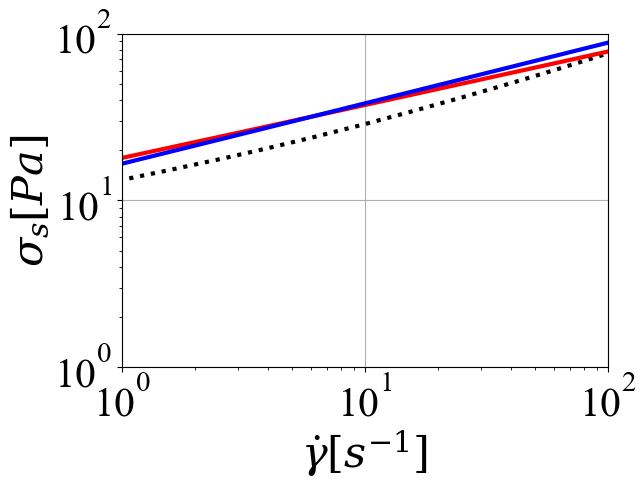
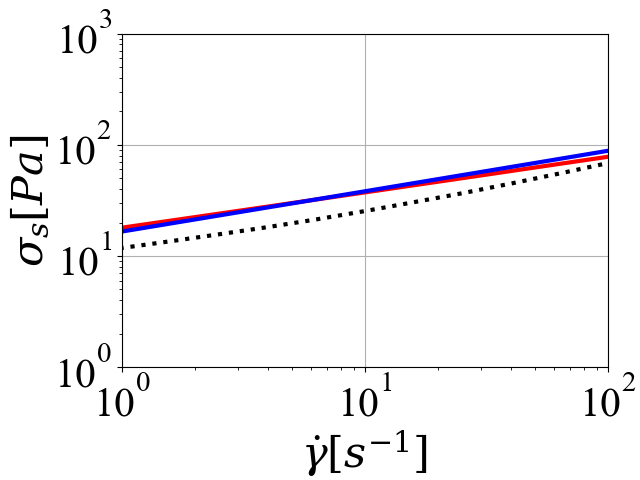
Clarify inverse timing and real flow figures

diff --git a/body-journals.tex b/body-journals.tex
@@ -749,11 +749,21 @@ frame-weighted trajectory to $\mathbf{y}_{\mathrm{obs}}$,
 \end{equation}
 where $\{Y_{s,i,\cdot}\}_i$ are the trajectories assigned to sub $s$
 and $\alpha_d$ are the frame weights used by the inverse loss
-(\S\ref{sec:inv-nn}; Tab.~\ref{tab:hyper}). Both profiles return a single primary
-sub-expert
-$s_{\mathrm{prod}}\in\{s_{\mathrm{real}},s_{\mathrm{sim}}\}$, and the
-inverse uses this top-1 expert directly without ensemble aggregation
-across candidates.
+(\S\ref{sec:inv-nn}; Tab.~\ref{tab:hyper}).  For a single dam-break
+inverse, both profiles return one primary sub-expert
+$s_{\mathrm{prod}}\in\{s_{\mathrm{real}},s_{\mathrm{sim}}\}$ and the
+optimizer stays inside that sub-expert's local training box.  For a two-setup inverse, the same framework keeps the first setup as a
+top-$1$ anchor and treats the routed setup-$2$ candidates as discrete
+joint hypotheses.  The profile controls only three knobs: the routing
+score, the number $M$ of setup-$2$ hypotheses, and the hypothesis
+selection rule.  The simulator-matched profile used in
+\S\ref{sec:mainresults} sets routing to \texttt{sim\_precision},
+keeps $M=3$ setup-$2$ candidates, optimises each pair in its own
+tight box, and applies a first-observation WRMS guard.  The camera
+profile used in \S\ref{sec:rheometer} sets routing to
+\texttt{real\_robust}, keeps $M=10$ setup-$2$ basin
+hypotheses, and selects conservatively to reduce real--sim-gap
+failures.
 
 \paragraph{Why Deterministic Routing.}
 \label{sec:surr-deterministic}
@@ -1753,16 +1763,18 @@ protocol we declare a recovery successful when
 $E_{\mathrm{rel}}\le 0.1$.
 
 All synthetic panels in this section use the simulator-matched
-\texttt{sim\_precision} routing profile of Eq.~\eqref{eq:simprecision}.
+\texttt{sim\_precision} profile of Eq.~\eqref{eq:simprecision}.
 The real-video inverses later in the paper use the
-\texttt{real\_robust} profile of Eq.~\eqref{eq:y8q}. The two profiles
-share the same geometry bank, terminal-distance bin, PCA/K-means
-candidate generation, top-$1$ expert selection, GP likelihood, and
-CMA-ES inverse; only the final observation-evidence rerank score is
-switched. This makes the synthetic experiment a simulator-matched
-precision test of the surrogate inverse, while the camera experiment
-keeps the noise-robust terminal-displacement evidence needed for
-real--sim discrepancy.
+\texttt{real\_robust} profile of Eq.~\eqref{eq:y8q}.  Both are
+instances of the same candidate-basin joint framework above.  In the
+synthetic profile, setup-$1$ is a top-$1$ local inverse, setup-$2$
+keeps the top-$3$ full-trajectory candidates, and the joint stage runs
+a tight-box per-pair search with a truth-blind WRMS guard on the first
+observation.  This is appropriate because the synthetic observations
+are generated by the same MLS-MPM simulator as the training corpus.  In
+the real profile, described in \S\ref{sec:rheometer}, setup-$2$ instead
+keeps top-$10$ terminal-displacement candidates and uses conservative
+selection for camera noise and real--sim discrepancy.
 
 \begin{table}[!htbp]
 \centering
@@ -1772,8 +1784,9 @@ real--sim discrepancy.
 observations before inverse optimisation. ``Hit'' means the routed
 candidate set contains the oracle sub-expert assigned to the held-out
 MPM row. The simulator-matched nearest-neighbour profile has the best
-synthetic recall, but all reported inverses still use a final top-$1$
-expert to avoid broad union boxes.}
+synthetic recall.  Single-setup inverses use the final top-$1$ expert;
+two-setup inverses keep only a small discrete setup-$2$ candidate set
+rather than broad union boxes.}
 \label{tab:sim-routing-diagnostic}
 \begin{tabular}{@{}lccc@{}}
 \toprule
@@ -1798,21 +1811,15 @@ predecessor's; the surrogate compresses each MPM forward into a
 local GP, so we expect to match -- not beat -- a sim-in-loop
 oracle on parameter recovery.  Our contribution is the
 wall-clock collapse that converts that precision into a practical
-pipeline.  For each case we run a single-setup inverse, use
-the Hessian-orthogonal proposer of \S\ref{sec:proposer} to choose
+pipeline.  For each case we run a single-setup inverse, use the
+Hessian-orthogonal proposer of \S\ref{sec:proposer} to choose
 a second geometry, synthesize that second observation with MLS-MPM
-at the ground-truth parameters, and run a conservative two-setup
-joint inverse.  The two-setup stage keeps the simulator-matched
-top-$3$ setup-2 candidates (ranked by frame-weighted nearest-training
-trajectory distance under the \texttt{sim\_precision} profile),
-optimises each candidate pair in its own tight sub-expert box, and
-accepts the joint update only when it does not violate the first
-observation's truth-blind replay consistency.  The full $30$-case
-panel completed in $13.1$\,min on one consumer GPU; extrapolating
-from the predecessor's reported $\sim\!8$\,h per single-setup
-inverse~\cite{hamamichi2023nonnewtonian}, the same $30$-case
-panel would take of order $240$\,h sim-in-loop, a
-$\sim\!10^{3}\times$ wall-clock contraction.
+at the ground-truth parameters, and run the simulator-matched two-setup
+joint profile.  The joint stage keeps the top-$3$ setup-$2$ candidates
+(ranked by frame-weighted nearest-training trajectory distance under
+\texttt{sim\_precision}), optimises each candidate pair in its own
+tight sub-expert box, and accepts the joint update only when it does
+not violate the first observation's truth-blind replay consistency.
 Fig.~\ref{fig:flow-error-cdf} reports the cumulative distributions
 of parameter and forward replay error across the panel.
 
@@ -1828,23 +1835,19 @@ $|\hat\theta-\theta^{\!\star}|/\theta^{\!\star}$.  The pass rates
 are at most comparable to, not better than, the predecessor's:
 the surrogate is information-lossy by construction and our
 contribution is the wall-clock contraction, not the precision
-ceiling.  The two-setup row uses top-$3$ simulator-matched
-setup-2 candidates (frame-weighted nearest-training-trajectory
-ranking) with per-pair tight-box joint optimisation and a
-truth-blind first-observation consistency guard, so the joint
-update preserves rather than regresses the single-setup result.
-The full panel, including second-setup MLS-MPM observation
-synthesis, took $13.1$\,min, versus an estimated $\sim\!240$\,h
-extrapolated from the predecessor's per-inverse
-wall-clock~\cite{hamamichi2023nonnewtonian}.}
+ceiling.  The two-setup row uses top-$3$ simulator-matched setup-$2$ candidates
+(frame-weighted nearest-training-trajectory ranking) with per-pair
+tight-box joint optimisation and a truth-blind first-observation WRMS
+guard, so the joint update preserves rather than regresses the
+single-setup result.  The speed comparison is separated into manual processing and CMA-ES inverse time in \S\ref{sec:timebudget}.}
 \label{tab:setup-ablation}
-\begin{tabular}{@{}cccccrr@{}}
+\begin{tabular}{@{}ccccc@{}}
 \toprule
 Setups & $\le 0.1$ & $\mathrm{relE}\,n$ & $\mathrm{relE}\,\eta$ &
-$\mathrm{relE}\,\sigma_Y$ & Panel time & Sim-in-loop \\
+$\mathrm{relE}\,\sigma_Y$ \\
 \midrule
-$1$ & $15/30$ ($50.0\%$) & $0.066$ & $0.187$ & $0.250$ & $13.1$\,min total & $\sim\!8$\,h/setup \\
-$2$ & $15/30$ ($50.0\%$) & $0.071$ & $\mathbf{0.160}$ & $0.268$ & same panel & $\sim\!16$\,h \\
+$1$ & $15/30$ ($50.0\%$) & $0.066$ & $0.187$ & $0.250$ \\
+$2$ & $15/30$ ($50.0\%$) & $0.071$ & $\mathbf{0.160}$ & $0.268$ \\
 \bottomrule
 \end{tabular}
 \end{table}
@@ -1922,7 +1925,7 @@ diagnostic.
     \centering
     \includegraphics[width=\columnwidth]{figs/results/gamma_representatives.png}
     \caption{Particle-level shear-rate coverage during MLS-MPM replay
-    of the same five diagnostic categories as Fig.~\ref{fig:flowcurve-syn}.
+    of the same diagnostic categories as Fig.~\ref{fig:flowcurve-syn}.
     Vertical bars show the
     $5$--$95$ percentile range of $\dot\gamma$ over particles and
     frames; dots show the median.  Most replay trajectories spend
@@ -1945,11 +1948,13 @@ parallel-plate rheometer sweeps: Chuno, Okonomiyaki sauce,
 moisturising milk, lotion, Japanese pork-cutlet sauce, and sweet
 bean paste.  This keeps the real comparison tied to independent
 instrumental measurements rather than to another video inverse.  For
-each material we use two dam-break setups, run the
-\texttt{real\_robust} routing and joint two-setup inverse, and
-overlay the recovered Herschel--Bulkley flow curve against the
-rheometer reference over the shear-rate range probed by the
-dam-break replay.
+each material we use two dam-break setups.  The first setup is a
+\texttt{real\_robust} top-$1$ local inverse; the second setup supplies
+top-$10$ \texttt{real\_robust} routed basin hypotheses, and the joint
+inverse selects a conservative tight-box pair without running an
+independent setup-$2$ single inverse.  We then overlay the recovered
+Herschel--Bulkley flow curve against the rheometer reference over the
+shear-rate range probed by the dam-break replay.
 
 Following the convention of the predecessor's Table~$1$ and
 Fig.~$13$~\cite{hamamichi2023nonnewtonian}, the headline comparison
@@ -1985,17 +1990,17 @@ Material  & $(W_1,H_1)$ & $(W_2,H_2)$
           & $\hat n$ & $\hat\eta$ & $\hat\sigma_Y$ & wall \\
 \midrule
 Chuno              & $(2.5, 2.7)$ & $(4.0, 2.0)$
-                   & $0.66$ & $8.12$  & $19.7$ & $117$\,s \\
+                   & $0.66$ & $8.07$  & $19.7$ & $19$\,s \\
 Okonomiyaki        & $(2.2, 2.5)$ & $(7.0, 7.0)$
-                   & $0.77$ & $21.4$  & $98.0$ & $126$\,s \\
+                   & $0.54$ & $47.5$  & $118.8$ & $19$\,s \\
 Moisturising milk  & $(4.5, 3.5)$ & $(4.5, 2.0)$
-                   & $0.85$ & $23.3$  & $167.6$ & $7$\,s \\
+                   & $0.43$ & $29.1$  & $135.4$ & $17$\,s \\
 Lotion             & $(6.1, 2.8)$ & $(7.0, 6.5)$
-                   & $0.37$ & $163.1$ & $2.6$  & $5$\,s \\
+                   & $0.37$ & $163.1$ & $2.6$  & $17$\,s \\
 Pork-cutlet sauce  & $(2.4, 2.1)$ & $(7.0, 7.0)$
-                   & $0.35$ & $78.6$  & $11.9$  & $5$\,s \\
+                   & $0.33$ & $76.3$  & $15.3$  & $20$\,s \\
 Sweet bean paste   & $(4.8, 4.1)$ & $(2.5, 2.5)$
-                   & $0.44$ & $219.0$ & $253.7$ & $7$\,s \\
+                   & $0.61$ & $169.4$ & $262.1$ & $30$\,s \\
 \bottomrule
 \end{tabular}
 \end{table}
@@ -2038,7 +2043,7 @@ Sweet bean paste   & $(4.8, 4.1)$ & $(2.5, 2.5)$
     Hamamichi rheometer-reference panel, in the layout
     of~\citet{hamamichi2023nonnewtonian} Fig.~$13$.  Dotted black:
     parallel-plate rheometer sweep on the same batch.  Red:
-    single-setup recovery.  Blue: joint two-setup recovery.  The
+    single-setup recovery.  Blue: current production joint two-setup recovery.  The
     panel deliberately shows the full six-material outcome rather
     than only successful examples.  Several materials track the
     rheometer sweep over the dam-break-supported shear-rate window;
@@ -2398,27 +2403,51 @@ Mask cleanup (\texttt{Photoshop})
 \end{table}
 
 \paragraph{Automated inverse time.}
-The compute-side contribution is the CMA-ES inverse of
-\S\ref{sec:mainresults}. A single-setup inverse through
-Algorithm~\ref{alg:invert} takes a median of $12$\,s per video on a
-single consumer GPU (Table~\ref{tab:setup-ablation}), versus several hours
-under the simulation-in-the-loop baseline that runs MPM at every
-candidate. A joint two-setup inverse through
-Algorithm~\ref{alg:joint} adds a second bounded CMA-ES run on the
-summed-NMSE objective of~\eqref{eq:Pstar}, bringing the total to a
-median of $24$\,s; three setups extend this to $\sim\!36$\,s
-(Table~\ref{tab:setup-ablation}). The predecessor's
-multi-setup protocol---proposed
-in~\cite{hamamichi2023nonnewtonian} as the identifiability
-mitigation but left computationally infeasible in practice---scales
-the hours-per-setup cost linearly with the number of setups.
+The compute-side comparison isolates the CMA-ES inverse stage only; it
+excludes material preparation, video capture, segmentation, and camera
+calibration. This is the fairest comparison because the predecessor's
+reported runtime is an MPM-in-the-loop inverse cost, not a full
+experiment-preparation cost. In the single-setup setting,
+Algorithm~\ref{alg:invert} takes a median of $12$\,s per material on a
+single consumer GPU. The corresponding simulation-in-the-loop inverse
+reported by \citet{hamamichi2023nonnewtonian} takes roughly $8$\,h per
+material, because every CMA-ES candidate requires an MLS-MPM forward
+simulation. The single-setup CMA-ES stage is therefore accelerated by
+about $2.4\times 10^{3}$.
+
+For two setups, we compare the same inverse stage after both videos have
+already been processed. Our deployed real-material profile uses setup-$1$
+as a top-$1$ anchor and setup-$2$ as routed candidate-basin hypotheses;
+the six rheometer-reference materials in Table~\ref{tab:rheo-recovery}
+finish in $17$--$30$\,s per material. A two-setup MPM-in-the-loop
+baseline would require two independent CMA-ES inverse stages, about
+$16$\,h per material under the same $8$\,h-per-setup cost model. Taking
+$22$\,s as the typical two-setup surrogate inverse time, the two-setup
+CMA-ES stage is accelerated by about $2.6\times 10^{3}$.
+\begin{table}[!htbp]
+\centering
+\small
+\caption{Automated CMA-ES inverse time per material, separated from
+manual preparation and video processing. Predecessor timings are the
+reported MLS-MPM-in-the-loop inverse cost; our timings are surrogate
+CMA-ES wall-clock on one consumer GPU.}
+\label{tab:inverse-time}
+\begin{tabular}{@{}lccc@{}}
+\toprule
+Inverse stage & Predecessor & Ours & Speedup \\
+\midrule
+Single setup & $\sim 8$\,h & $12$\,s & $2.4\times10^{3}$ \\
+Two setup & $\sim 16$\,h & $17$--$30$\,s & $2.6\times10^{3}$ \\
+\bottomrule
+\end{tabular}
+\end{table}
 
 \paragraph{End-to-end.}
 Combining the two components, our per-material pipeline finishes in
 roughly $10$--$11$\,min of wall-clock (manual $\sim\!10$\,min
-$+$ automated $\le 1$\,min), versus hours of manual calibration
-followed by additional hours of MPM-in-loop inversion under the
-predecessor---a difference of more than an order of magnitude in
+$+$ automated $\le 1$\,min), versus roughly $25$\,min of manual
+processing followed by additional hours of MPM-in-loop inversion under
+the predecessor---a difference of more than an order of magnitude in
 both the human-attention budget and the compute budget. More
 importantly, the automated portion completes within the time window
 of a single user session, which is what makes the freshness,
